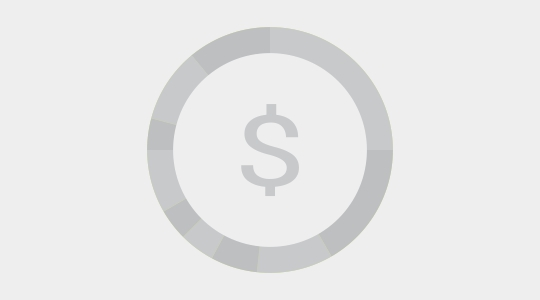
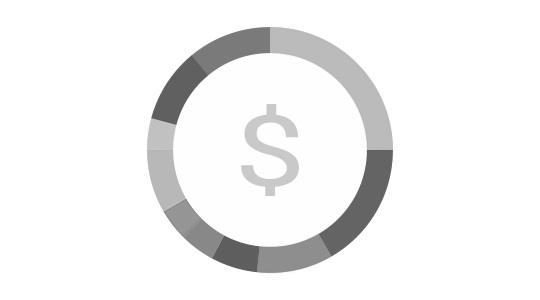
minor visual bug fixes on examples, fixed autocomplete on city results pages

Changed region(s): [[0.2963, 0.48, 0.7407, 0.93], [0.2667, 0.09, 0.5037, 0.42]]

diff --git a/app/assets/javascripts/examples.js b/app/assets/javascripts/examples.js
@@ -3,14 +3,18 @@ var prefill = {'city':['City 1', 'City 2 (Optional)'], 'major':['Major 1', 'Majo
 				'career':['Career 1', 'Career 2 (Optional)'], 'suggest':['What else would you like to search for?']};
 
 //get all data for the auto completes
-var auto_cities, auto_majors, auto_schools, auto_careers, stillover;
+var auto_cities, auto_majors, auto_schools, auto_careers, stillover, bg_color;
 
 stillover = true;
 
 function showSearch(type) {
 	if (!stillover)
 	{
-		$("#" + type + "_container").css("background-image", "url(/assets/examples/"+ type +"_blur.jpeg)");
+		//$("#" + type + "_container").css("background-image", "url(/assets/examples/"+ type +"_blur.jpeg)");
+		if (type == "spending")
+			$("#" + type + "_container").css("background-image", "url(/assets/examples/"+ type +"_blur.jpeg)");
+		else
+			$("#" + type + "_container").css("background-color", "#EEEEEE");
 		$("#" + type + "_form").removeAttr("hidden");
 		$("#" + type + "_clear").css("visibility", "visible");
 	}
@@ -20,7 +24,7 @@ $(document).ready(function() {
 	
 	//wait to change bg color until image has loaded
 	//first get color from local storage
-	var bg_color;
+	bg_color;
     if (sessionStorage.getItem("colors"))
     {
         var c = jQuery.parseJSON(unescape(sessionStorage.getItem("colors")));
@@ -65,27 +69,27 @@ $(document).ready(function() {
 	// });
 	$('<img/>').attr('src', '/assets/examples/city.png').load(function() {
 		$('#city_container').css({"background-color":bg_color});
-		$('<img/>').attr('src', '/assets/examples/city_blur.jpeg').load();
+		//$('<img/>').attr('src', '/assets/examples/city_blur.jpeg').load();
 	});
 	$('<img/>').attr('src', '/assets/examples/career.png').load(function() {
 		$('#career_container').css({"background-color":bg_color});
-		$('<img/>').attr('src', '/assets/examples/career_blur.jpeg').load();
+		//$('<img/>').attr('src', '/assets/examples/career_blur.jpeg').load();
 	});
 	$('<img/>').attr('src', '/assets/examples/school.png').load(function() {
 		$('#school_container').css({"background-color":bg_color});
-		$('<img/>').attr('src', '/assets/examples/school_blur.jpeg').load();
+		//$('<img/>').attr('src', '/assets/examples/school_blur.jpeg').load();
 	});
 	$('<img/>').attr('src', '/assets/examples/major.png').load(function() {
 		$('#major_container').css({"background-color":bg_color});
-		$('<img/>').attr('src', '/assets/examples/major_blur.jpeg').load();
+		//$('<img/>').attr('src', '/assets/examples/major_blur.jpeg').load();
 	});
 	$('<img/>').attr('src', '/assets/examples/spending.png').load(function() {
-		$('#spending_container').css({"background-color":bg_color});
+		//$('#spending_container').css({"background-color":bg_color});
 		$('<img/>').attr('src', '/assets/examples/spending_blur.jpeg').load();
 	});
 	$('<img/>').attr('src', '/assets/examples/suggest.png').load(function() {
 		$('#suggest_container').css({"background-color":bg_color});
-		$('<img/>').attr('src', '/assets/examples/suggest_blur.jpeg').load();
+		//$('<img/>').attr('src', '/assets/examples/suggest_blur.jpeg').load();
 	});
 	// $('<img/>').attr('src', '/assets/examples/career.png').load(function() {
 	// 	$('#career_container').css({"background-color":bg_color});
@@ -138,7 +142,6 @@ $(document).ready(function() {
 		  			var b = $.grep(auto_careers, function(item, index){return ((item.toLowerCase()).indexOf(re.toLowerCase())>0);});
 		  			responseFn(a.concat(b));
 		  	},
-	  		autoFocus: true,
 	  		delay: 0
 		});
 		$( "#search_2_career" ).autocomplete({
@@ -149,7 +152,6 @@ $(document).ready(function() {
 		  			var b = $.grep(auto_careers, function(item, index){return ((item.toLowerCase()).indexOf(re.toLowerCase())>0);});
 		  			responseFn(a.concat(b));
 		  	},
-	  		autoFocus: true,
 	  		delay: 0
 		});
 	});
@@ -165,7 +167,6 @@ $(document).ready(function() {
 		  			var b = $.grep(auto_cities, function(item, index){return ((item.toLowerCase()).indexOf(req.term.toLowerCase())>0);});
 		  			responseFn(a.concat(b));
 		  	},
-	  		autoFocus: true,
 	  		delay: 0
 		});
 		$( "#search_2_city" ).autocomplete({
@@ -176,7 +177,6 @@ $(document).ready(function() {
 		  			var b = $.grep(auto_cities, function(item, index){return ((item.toLowerCase()).indexOf(req.term.toLowerCase())>0);});
 		  			responseFn(a.concat(b));
 		  	},
-	  		autoFocus: true,
 	  		delay: 0
 		});
 	});
@@ -191,7 +191,6 @@ $(document).ready(function() {
 		  			var b = $.grep(auto_majors, function(item, index){return ((item.toLowerCase()).indexOf(re.toLowerCase())>0);});
 		  			responseFn(a.concat(b));
 		  	},
-	  		autoFocus: true,
 	  		delay: 0
 		});
 		$( "#search_2_major" ).autocomplete({
@@ -202,7 +201,6 @@ $(document).ready(function() {
 		  			var b = $.grep(auto_majors, function(item, index){return ((item.toLowerCase()).indexOf(re.toLowerCase())>0);});
 		  			responseFn(a.concat(b));
 		  	},
-	  		autoFocus: true,
 	  		delay: 0
 		});
 	});
@@ -217,7 +215,6 @@ $(document).ready(function() {
 		  			var b = $.grep(auto_schools, function(item, index){return ((item.toLowerCase()).indexOf(re.toLowerCase())>0);});
 		  			responseFn(a.concat(b));
 		  	},
-	  		autoFocus: true,
 	  		delay: 0
 		});
 		$( "#search_2_school" ).autocomplete({
@@ -228,7 +225,6 @@ $(document).ready(function() {
 		  			var b = $.grep(auto_schools, function(item, index){return ((item.toLowerCase()).indexOf(re.toLowerCase())>0);});
 		  			responseFn(a.concat(b));
 		  	},
-	  		autoFocus: true,
 	  		delay: 0
 		});
 	});
@@ -311,7 +307,19 @@ function suggestSubmit() {
 function resort(type) {
 	if (document.getElementById("search_1_" + type).value == "" && (type == "suggest" || type == "spending" || document.getElementById("search_2_" + type).value == ""))
 	{
-		$("#" + type + "_container").css("background-image", "url(/assets/examples/"+ type +".png)");
+		if (type == "spending")
+			$("#" + type + "_container").css("background-image", "url(/assets/examples/"+ type +".png)");
+		else
+		{	
+			if (!sessionStorage.getItem("colors"))
+				$("#" + type + "_container").css("background-color", "#884412");
+			else
+			{
+				//var c = sessionStorage.getItem("colors");
+				$("#" + type + "_container").css("background-color", bg_color);
+			}
+		}
+		//$("#" + type + "_container").css("background-image", "url(/assets/examples/"+ type +".png)");
 		$("#" + type + "_form").attr("hidden", "true");
 		$("#" + type + "_clear").css("visibility", "hidden");
 	}

diff --git a/app/assets/javascripts/city.js b/app/assets/javascripts/city.js
@@ -6,7 +6,7 @@ $(document).ready(function() {
 	  			var re = $.ui.autocomplete.escapeRegex(req.term);
 	  			var pattern1 = new RegExp("^"+re, "i");
 	  			var a = $.grep(auto_cities, function(item, index){return pattern1.test(item);});
-	  			var b = $.grep(auto_cities, function(item, index){return ((item.toLowerCase()).indexOf(re.toLowerCase())>0);});
+	  			var b = $.grep(auto_cities, function(item, index){return ((item.toLowerCase()).indexOf(req.term.toLowerCase())>0);});
 	  			responseFn(a.concat(b));
 	  		},
 	  		response: function(e, u) {
@@ -33,7 +33,7 @@ $(document).ready(function() {
 	  			var re = $.ui.autocomplete.escapeRegex(req.term);
 	  			var pattern1 = new RegExp("^"+re, "i");
 	  			var a = $.grep(auto_cities, function(item, index){return pattern1.test(item);});
-	  			var b = $.grep(auto_cities, function(item, index){return ((item.toLowerCase()).indexOf(re.toLowerCase())>0);});
+	  			var b = $.grep(auto_cities, function(item, index){return ((item.toLowerCase()).indexOf(req.term.toLowerCase())>0);});
 	  			responseFn(a.concat(b));
 	  		},
 	  		response: function(e, u) {
